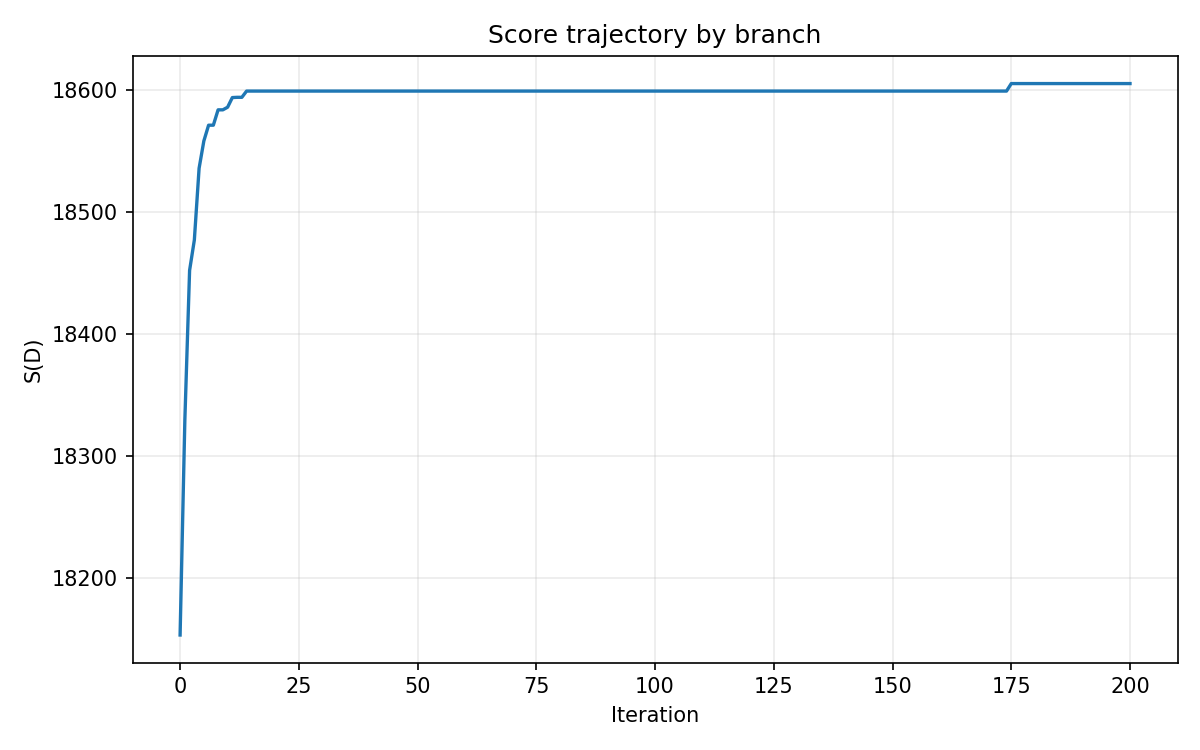
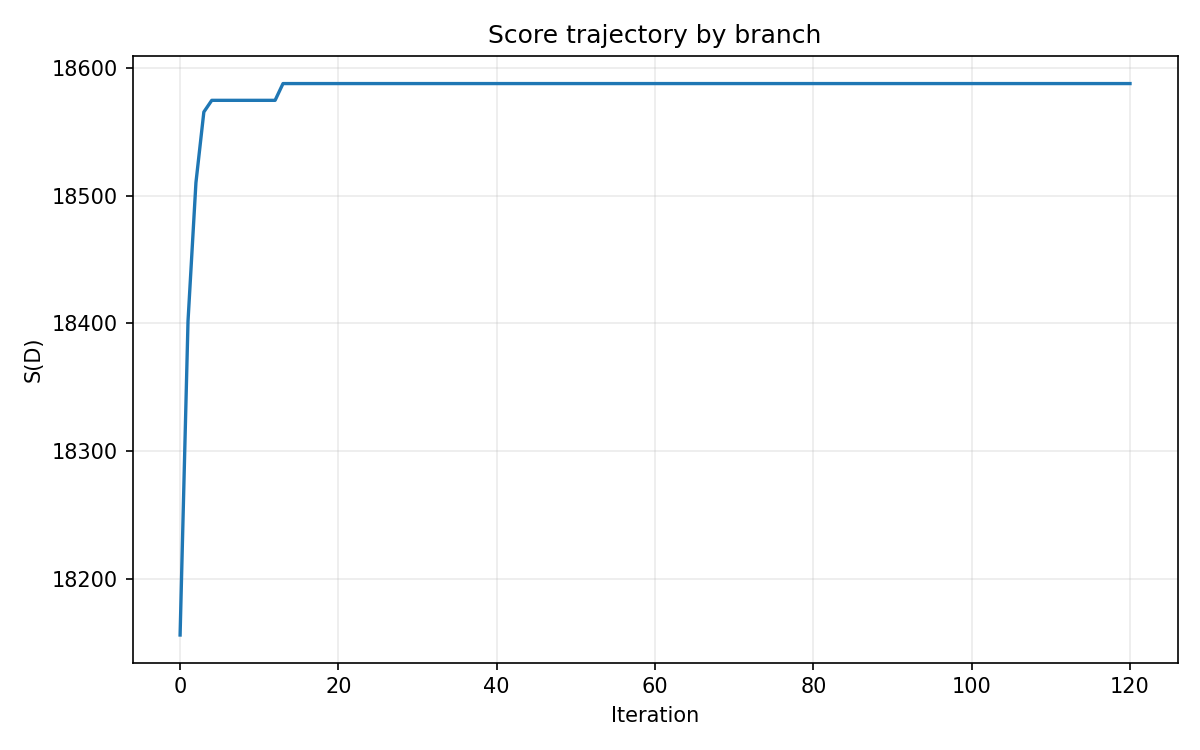
xxx

diff --git a/calculate_my_mask.py b/calculate_my_mask.py
@@ -68,13 +68,6 @@ def parse_args() -> argparse.Namespace:
         default="resnet50",
         help="mask 保存路径中的模型名称",
     )
-    parser.add_argument("--debug-outer", type=int, default=40)
-    parser.add_argument(
-        "--branch",
-        type=int,
-        default=3,
-        help="group 模式随机初始化分支数，最终取最优分支",
-    )
     parser.add_argument(
         "--compare",
         action=argparse.BooleanOptionalAction,
@@ -252,9 +245,6 @@ def select_group_mask(
     num_classes: int,
     cut_ratio: int,
     device: torch.device,
-    progress_desc: str | None = None,
-    debug_outer: int = 3,
-    branch_count: int = 1,
 ) -> tuple[np.ndarray, dict[int, int], dict[str, object]]:
     if cut_ratio <= 0 or cut_ratio > 100:
         raise ValueError("cr 必须在 1-100 之间。")
@@ -395,35 +385,6 @@ def select_group_mask(
         child = np.concatenate([child, ls_add])
         return child
 
-    def _shake(pop_data: list[dict[str, object]], k_mut_value: int, k_ls_value: int) -> dict[str, object]:
-        best_ind = pop_data[0]
-        shaken_child = np.array(best_ind["indices"], dtype=np.int64)
-        k_shake = min(
-            max(int(np.sqrt(max(target_size, 1)) * 2), 2),
-            shaken_child.size,
-            max(0, num_samples - shaken_child.size),
-        )
-        if k_shake <= 0:
-            return _evaluate(_repair_size(shaken_child))
-
-        drop_idx = np.random.choice(shaken_child, size=k_shake, replace=False).astype(np.int64)
-        comp_child = np.setdiff1d(np.arange(num_samples, dtype=np.int64), shaken_child, assume_unique=False)
-        add_idx = np.random.choice(comp_child, size=k_shake, replace=False).astype(np.int64)
-        shaken_child = np.setdiff1d(shaken_child, drop_idx, assume_unique=False)
-        shaken_child = np.concatenate([shaken_child, add_idx])
-        shaken_child = _repair_size(shaken_child)
-
-        if k_mut_value > 0:
-            drop_idx = np.random.choice(shaken_child, size=k_mut_value, replace=False).astype(np.int64)
-            comp_child = np.setdiff1d(np.arange(num_samples, dtype=np.int64), shaken_child, assume_unique=False)
-            add_idx = np.random.choice(comp_child, size=k_mut_value, replace=False).astype(np.int64)
-            shaken_child = np.setdiff1d(shaken_child, drop_idx, assume_unique=False)
-            shaken_child = np.concatenate([shaken_child, add_idx])
-
-        proxy_scores = np.asarray(best_ind["s_ref"], dtype=np.float32)
-        shaken_child = _local_search_step(shaken_child, proxy_scores, k_ls_value)
-        return _evaluate(_repair_size(shaken_child))
-
     def _tournament_select(population: list[dict[str, object]]) -> dict[str, object]:
         if len(population) == 1:
             return population[0]
@@ -439,11 +400,11 @@ def select_group_mask(
         initial_population_idx.append(np.sort(random_idx))
 
     population = [_evaluate(_repair_size(idx)) for idx in initial_population_idx]
-    best_history = [max(float(item["fitness"]) for item in population)]
+    score_history = [max(float(item["fitness"]) for item in population)]
 
     generation_iter = tqdm(
         range(ga_generations),
-        desc=(progress_desc or "Group optimization") + " [Memetic-GA]",
+        desc="Group optimization [Memetic-GA]",
         unit="gen",
         leave=True,
     )
@@ -537,19 +498,8 @@ def select_group_mask(
         population.sort(key=lambda item: float(item["fitness"]), reverse=True)
 
         generation_best = max(float(item["fitness"]) for item in population)
-        best_history.append(generation_best)
+        score_history.append(generation_best)
         generation_iter.set_postfix({"best_S": f"{generation_best:.4f}"})
-        if gen_idx % 10 == 0:
-            print(
-                (
-                    gen_idx,
-                    level,
-                    k_mut,
-                    k_ls,
-                    round(crossover_sym_ratio_eff, 6),
-                    round(generation_best, 6),
-                )
-            )
 
     # ====== GA 结束后的局部搜索收尾（基于真实动态得分） ======
     # 先取出最优个体的 indices 形式
@@ -611,13 +561,8 @@ def select_group_mask(
         "final_rate": final_rate,
         "selected_by_class": selected_by_class,
         "S": float(np.sum(final_s_all[final_mask.astype(bool)])),
-        "outer_iters": int(ga_generations),
-        "branch_count": int(ga_population_size),
-        "best_branch": 1,
-        "best_iter": int(np.argmax(np.asarray(best_history, dtype=np.float32))),
-        "branch_best_scores": [float(np.max(np.asarray(best_history, dtype=np.float32)))],
-        "branch_best_iters": [int(np.argmax(np.asarray(best_history, dtype=np.float32)))],
-        "branch_score_histories": [best_history],
+        "best_iter": int(np.argmax(np.asarray(score_history, dtype=np.float32))),
+        "score_history": score_history,
         "ga_population_size": int(ga_population_size),
         "ga_generations": int(ga_generations),
         "ga_offspring": int(ga_offspring),
@@ -630,8 +575,8 @@ def _sanitize_for_filename(text: str) -> str:
     return text.replace("/", "-").replace(" ", "_")
 
 
-def save_branch_score_plot(
-    branch_score_histories: Sequence[Sequence[float]],
+def save_score_curve_plot(
+    score_history: Sequence[float],
     *,
     dataset: str,
     method: str,
@@ -648,17 +593,14 @@ def save_branch_score_plot(
         out_dir
         / (
             f"dataset_{dataset}_method_{method}_weight_{weight_group}_"
-            f"model_{model_name}_seed_{seed}_cr_{cut_ratio}_clip_{clip_tag}_branch_curve.png"
+            f"model_{model_name}_seed_{seed}_cr_{cut_ratio}_clip_{clip_tag}_score_curve.png"
         )
     )
 
     fig, ax = plt.subplots(figsize=(8, 5))
-    for history in branch_score_histories:
-        if len(history) == 0:
-            continue
-        x = np.arange(len(history), dtype=np.int32)
-        ax.plot(x, np.asarray(history, dtype=np.float64), linewidth=1.6)
-    ax.set_title("Score trajectory by branch")
+    x = np.arange(len(score_history), dtype=np.int32)
+    ax.plot(x, np.asarray(score_history, dtype=np.float64), linewidth=1.6)
+    ax.set_title("Score trajectory")
     ax.set_xlabel("Iteration")
     ax.set_ylabel("S(D)")
     ax.grid(alpha=0.25)
@@ -761,7 +703,6 @@ def main() -> None:
         image_adapter.to(device).eval()
         text_adapter.to(device).eval()
 
-        dds_start = time.perf_counter()
         num_samples = len(dataset_for_names)
 
         def _compute_scores() -> dict[str, np.ndarray]:
@@ -801,29 +742,26 @@ def main() -> None:
             num_samples=num_samples,
             compute_fn=_compute_scores,
         )
+        static_score_seconds = time.perf_counter() - static_compute_start
         print(
-            f"[Seed {seed}] Static scores ready (cache/compute) | elapsed={time.perf_counter() - static_compute_start:.2f}s"
+            f"[Seed {seed}] Static scores ready (cache/compute) | elapsed={static_score_seconds:.2f}s"
         )
 
-        dds_scores = torch.from_numpy(static_scores["dds"])
-        div_scores = torch.from_numpy(static_scores["div"])
-        sa_scores = torch.from_numpy(static_scores["sa"])
-        dds_time = time.perf_counter() - dds_start
-        div_time = dds_time
-        sa_time = dds_time
 
-        if not (len(dds_scores) == len(div_scores) == len(sa_scores)):
+        dds_scores_np = np.asarray(static_scores["dds"])
+        div_scores_np = np.asarray(static_scores["div"])
+        sa_scores_np = np.asarray(static_scores["sa"], dtype=np.float32)
+
+        if not (len(dds_scores_np) == len(div_scores_np) == len(sa_scores_np)):
             raise RuntimeError("三个指标的样本数不一致，无法合并。")
 
-        total_scores = (
-            weights["dds"] * dds_scores
-            + weights["div"] * div_scores
-            + weights["sa"] * sa_scores
+        total_scores_np = (
+            weights["dds"] * dds_scores_np
+            + weights["div"] * div_scores_np
+            + weights["sa"] * sa_scores_np
         )
         labels = np.asarray(dataset_for_names.targets)
-        total_scores_np = np.asarray(total_scores)
         labels_t = torch.as_tensor(labels, dtype=torch.long, device=device)
-        sa_scores_np = np.asarray(sa_scores, dtype=np.float32)
         div_features_for_compare = None
         dds_features_for_compare = None
 
@@ -867,7 +805,6 @@ def main() -> None:
                 f"[Mask {task_idx}/{total_tasks}] seed={seed} | cr={cut_ratio} | method={method} | weight_group={weight_group}"
             )
             group_stats: dict[str, object] | None = None
-            debug_curve_path: str | None = None
             if method == "topk":
                 mask, selected_by_class = select_topk_mask(
                     total_scores_np,
@@ -875,10 +812,9 @@ def main() -> None:
                     num_classes=len(class_names),
                     cut_ratio=cut_ratio,
                 )
-                selection_strategy = "topk_per_class"
             else:
                 mask, selected_by_class, group_stats = select_group_mask(
-                    np.asarray(sa_scores),
+                    sa_scores_np,
                     dds_metric=dds_metric,
                     div_metric=div_metric,
                     dds_loader=dds_loader,
@@ -889,14 +825,9 @@ def main() -> None:
                     num_classes=len(class_names),
                     cut_ratio=cut_ratio,
                     device=device,
-                    progress_desc=(
-                        f"Group mask optimization (seed={seed}, cr={cut_ratio})"
-                    ),
-                    debug_outer=args.debug_outer,
-                    branch_count=args.branch,
                 )
-                debug_curve = save_branch_score_plot(
-                    group_stats.get("branch_score_histories", []),
+                debug_curve = save_score_curve_plot(
+                    group_stats.get("score_history", []),
                     dataset=dataset_name,
                     method=method,
                     weight_group=weight_group,
@@ -905,8 +836,7 @@ def main() -> None:
                     cut_ratio=cut_ratio,
                     clip_model=args.clip_model,
                 )
-                debug_curve_path = str(debug_curve)
-                print(f"[Debug] branch score curves saved to: {debug_curve}")
+                print(f"[Debug] score curve saved to: {debug_curve}")
 
                 if args.compare:
                     topk_mask, _ = select_topk_mask(
@@ -928,7 +858,6 @@ def main() -> None:
                         f"sum_group={sum_group:.4f} | sum_topk={sum_topk:.4f} | "
                         f"better={better} (Δ={diff:.4f})"
                     )
-                selection_strategy = "group_selection"
 
             total_time = time.perf_counter() - total_start
             mask_path = resolve_mask_path(
@@ -942,41 +871,15 @@ def main() -> None:
             mask_dir.mkdir(parents=True, exist_ok=True)
             np.savez_compressed(mask_path, mask=mask.astype(np.uint8))
 
-            meta_info = {
-                "dataset": dataset_name,
-                "model_name": args.model_name,
-                "method": method_name,
-                "weight_group": weight_group,
-                "weight_seed": seed if weight_group == "learned" else None,
-                "clip_model": args.clip_model,
-                "adapter_seed": seed,
-                "adapter_image_path": str(adapter_paths["image_path"]),
-                "adapter_text_path": str(adapter_paths["text_path"]),
-                "cr": cut_ratio,
-                "num_samples": int(mask.shape[0]),
-                "selected_count": int(mask.sum()),
-                "selected_by_class": selected_by_class,
-                "selection_strategy": selection_strategy,
-                "seed": seed,
-                "group_stats": group_stats,
-                "mask_debug_curve": debug_curve_path,
-                "timing": {
-                    "dds_seconds": dds_time,
-                    "div_seconds": div_time,
-                    "sa_seconds": sa_time,
-                    "total_seconds": total_time,
-                },
-            }
-            with open(mask_dir / "meta_info.json", "w", encoding="utf-8") as f:
-                json.dump(meta_info, f, ensure_ascii=False, indent=2)
-
-            print(f"seed={seed} | cr={cut_ratio} | selected={int(mask.sum())}")
+            print(
+                f"seed={seed} | cr={cut_ratio} | selected={int(mask.sum())} "
+                f"| static_score_seconds={static_score_seconds:.2f} | total_seconds={total_time:.2f}"
+            )
             if group_stats is not None:
                 print(
                     "group_stats: "
                     f"sr={group_stats['sr']:.6f} | rate={group_stats['final_rate']:.6f} | "
                     f"m_c={group_stats['selected_by_class']} | "
-                    f"best_branch={group_stats['best_branch']} | "
                     f"best_iter={group_stats['best_iter']} | "
                     f"S(D)={group_stats['S']:.6f}"
                 )
